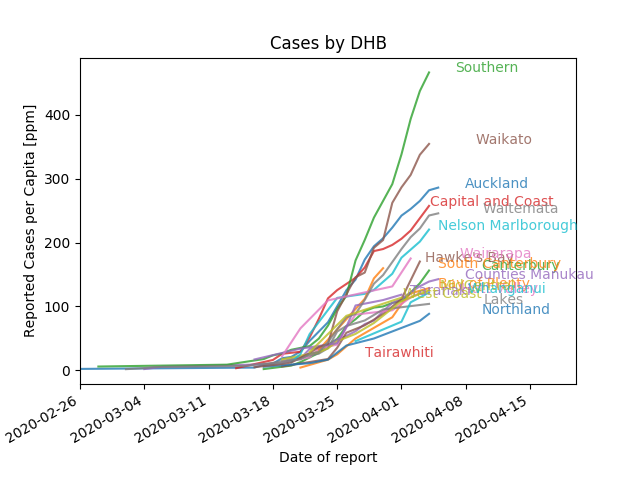
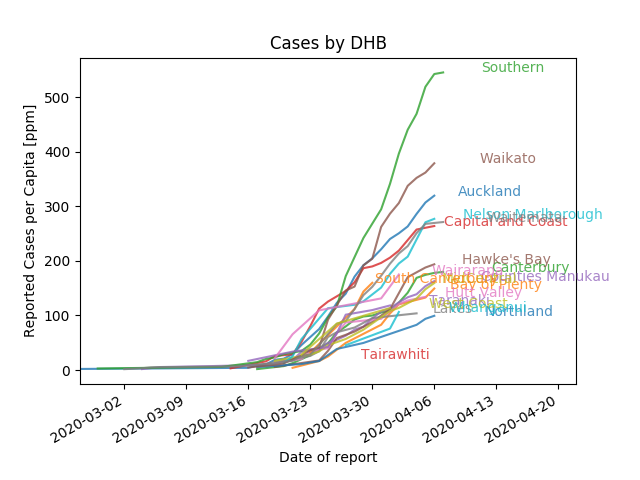
Was missing updates for some plots

diff --git a/NZModel/nz_data.py b/NZModel/nz_data.py
@@ -291,9 +291,9 @@ def plot_demographics():
 
 
 if __name__ == "__main__":
-    #plot_new()
-    #plot_total()
-    #plot_dhb()
+    plot_new()
+    plot_total()
+    plot_dhb()
     plot_demographics()
 
     plt.show()
